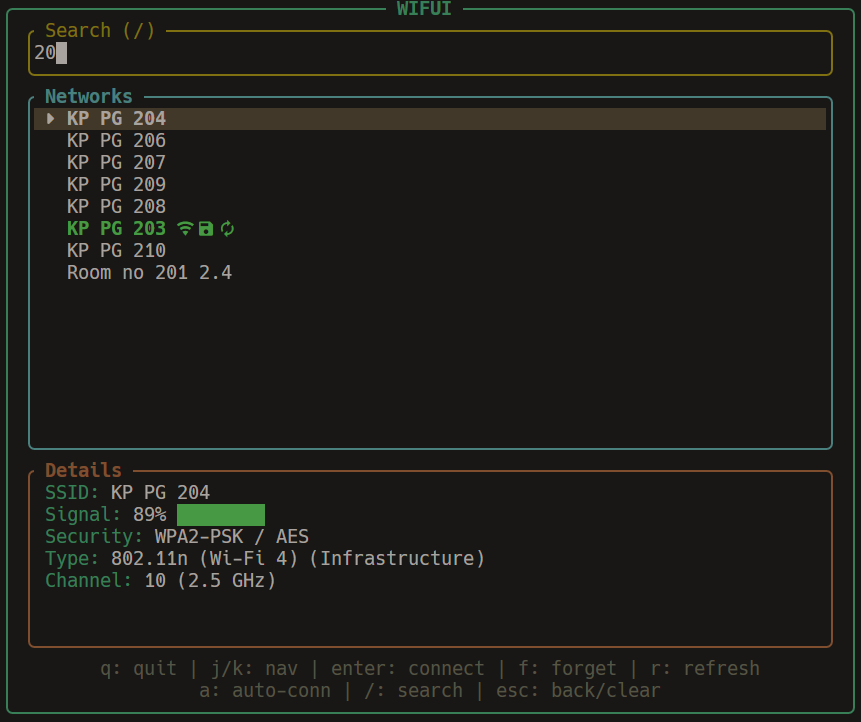
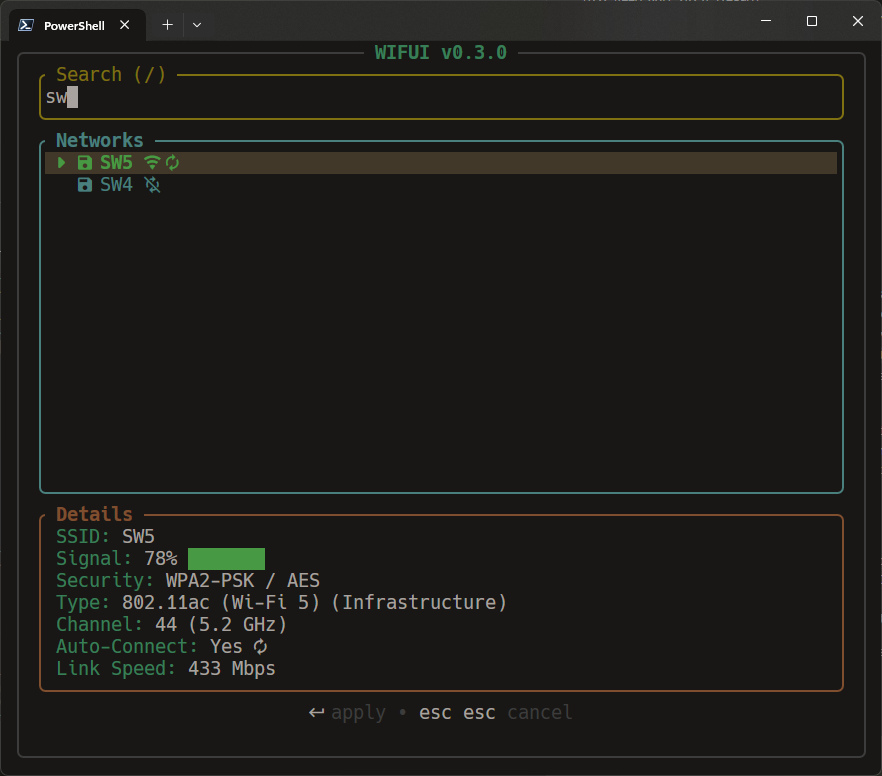
release: v0.3.0 - manual connect, smart sorting & stability
- feat: manual network addition & hidden SSID support

- feat: vim-style navigation (g/G) & smart list sorting

- fix: connection stability & error handling improvements

- chore: update docs & screenshots

Changed region(s): [[0.0, 0.0, 1.0, 1.0]]

diff --git a/src/wifi.rs b/src/wifi.rs
@@ -156,6 +156,7 @@ unsafe extern "system" fn notification_callback(
                 294917 => "Incorrect Password (Key Exchange Timeout)".to_string(), // WLAN_REASON_CODE_MSMSEC_AUTH_SUCCESS_TIMEOUT (0x00048005) - Often Wrong Password
                 294932 => "Authentication Timeout (Possible Wrong Password)".to_string(), // 0x48014 - Timeout waiting for response
                 524294 => "MSM Security Missing".to_string(), // WLAN_REASON_CODE_MSM_SECURITY_MISSING
+                229396 => "Connection Failed (Profile Issue)".to_string(), // 0x38014 - WLAN_REASON_CODE_MSMSEC_UI_REQUEST_FAILURE
 
                 _ => format!("Reason Code: {}", reason_code),
             };
@@ -674,7 +675,7 @@ fn create_profile_xml(
         String::new()
     };
 
-    let connection_mode = if password.is_some() { "auto" } else { "manual" };
+    let connection_mode = "manual";
 
     format!(
         r#"<?xml version="1.0"?>
@@ -751,6 +752,9 @@ pub fn connect_with_password(
         WlanCloseHandle(handle, None);
     }
 
+    // Give the system a moment to register the profile
+    std::thread::sleep(std::time::Duration::from_millis(1500));
+
     connect_profile(ssid)
 }
 
@@ -789,6 +793,9 @@ pub fn connect_open(ssid: &str, hidden: bool) -> Result<()> {
         }
         WlanCloseHandle(handle, None);
     }
+
+    // Give the system a moment to register the profile
+    std::thread::sleep(std::time::Duration::from_millis(1000));
 
     connect_profile(ssid)
 }

diff --git a/README.md b/README.md
@@ -21,9 +21,11 @@
 
 ## 📸 Screenshots
 
-| Home | Search | Password |
-|:---:|:---:|:---:|
-| ![Home](images/main.png) | ![Search](images/search.png) | ![Password](images/password.png) |
+| Home | Add Network |
+|:---:|:---:|
+| ![Home](images/main.png) | ![Search](images/addnetwork.png) |
+| Password | Search |
+| ![Password](images/password.png) | ![Search](images/search.png) |
 
 ## 📦 Installation
 
